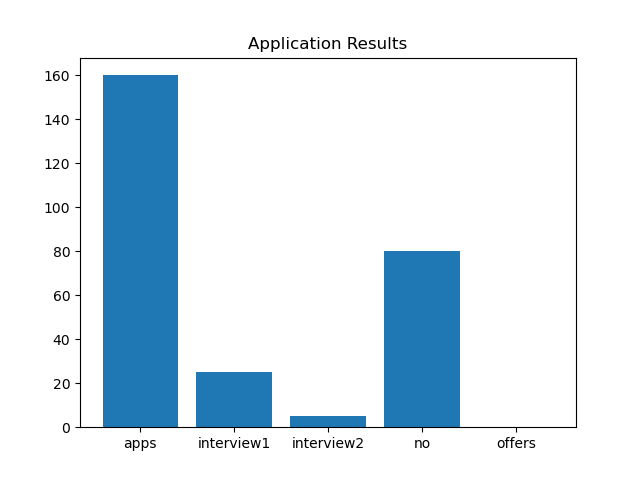
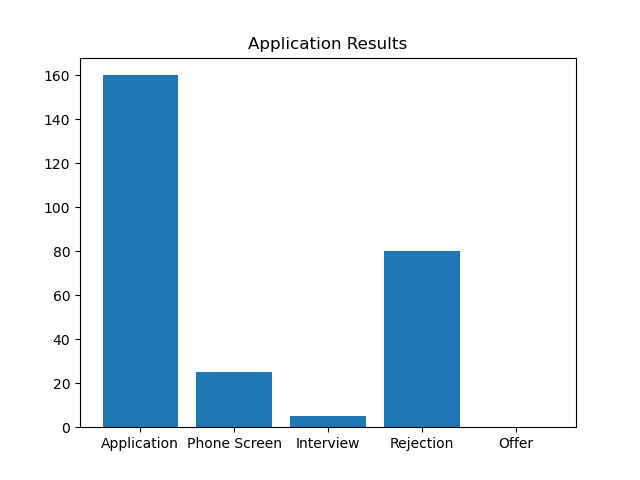
Edited the Graphs. Cleaned up my paragraphs.

Changed region(s): [[0.1562, 0.9062, 0.5625, 0.9375], [0.5938, 0.9062, 0.7188, 0.9375], [0.7812, 0.9062, 0.8438, 0.9375]]

diff --git a/dataVisualizationPractice.html b/dataVisualizationPractice.html
@@ -41,18 +41,15 @@
             </h1>
             <ul>
                 <p>
-                    Hello, this is a quick piece I decide to make to show off how my job hunting has been going for me. These diagrams are based of my job hunting statistics and using matplotlib to create each diagram.
+                    Hello, this is a quick piece I decided to make to show off how my job hunting has been going. Each itteration of the graphs you will see uses the same data and is made with Python and the Matplotlib library to create them. 
                 </p>
-                <h4>
-                    enjoy (:
-                </h4>
                 <hr>
                 <li>
                     <img src="images/dataVisualization/Figure_3.png" alt="scatter plot representing job statistics">
                 </li>
                 <hr>
                 <p>
-                    With this chart we do not really have a great idea of what is going on. We notice that there is no keys, nothing to really note what is going on in this diagram. From it being a scatter plot we aren't really allowed to label heavily using matplotlib as a mapping function for scatter plots.
+                    From this chart we do not really get a great idea of what is going on. Notice that there is no keys, nothing to really note what is going on in this diagram. Due to the nature of it being a scatter plot, the data that is represented has no bearing in any direction and is difficult for the reader to interpret.
                 </p>
                 <hr>
                 <li>
@@ -60,7 +57,7 @@
                 </li>
                 <hr>
                 <p>
-                    Using a bar chart we are able to better view what has occured with my job offers. With the first section 'apps', we can denote how many applications have been sent. Following from there we can getter a better idea of what overall occured with the application process from each section describing what has occured to application.
+                    Using a bar chart we are able to better view what has occured with my job offers. With the first section 'Application', we can denote how many applications have been sent. Following from there we can getter a better idea of what overall occured with the application process from each section describing what has occured to applications that have been sent in and viewed.
                 </p>
                 <hr>
                 <li>
@@ -68,7 +65,7 @@
                 </li>
                 <hr>
                 <p>
-                    To get a better sense of what the data looks like and the grand scheme of what is occuring I thought a pie chart would allow for the easiest visualization and ledgibility of data that is presented. With this form of graphing the viewer is able to read the precentages of what has occured for each application. The only piece lacking for this form graph is that we do not see the amount versus seeing a precentage.
+                    The next iteration of data visualization I thought a pi chart would be a great way to express what is occuring with the data. Using percentages instead of whole numbers to represent the amount of interviews, rejections, phone screenings, etc. allows the reader to see the success rate of my application process and how it is going as a whole. I beleieve this is beneficial for the reader sense the physical space of each section allows the reader to get a better understanding of how my application process is going versus a bar graph.
                 </p>
                 <hr>
                 <li>
@@ -80,7 +77,7 @@
                 </p>
                 <hr>
                 <p>
-                    Thank you for taking a look at this little project. It was very fun to work on! (:
+                    Thank you for taking a look at this little project. It was fun to work on! (:
                 </p>
                 <hr>
             </ul>
